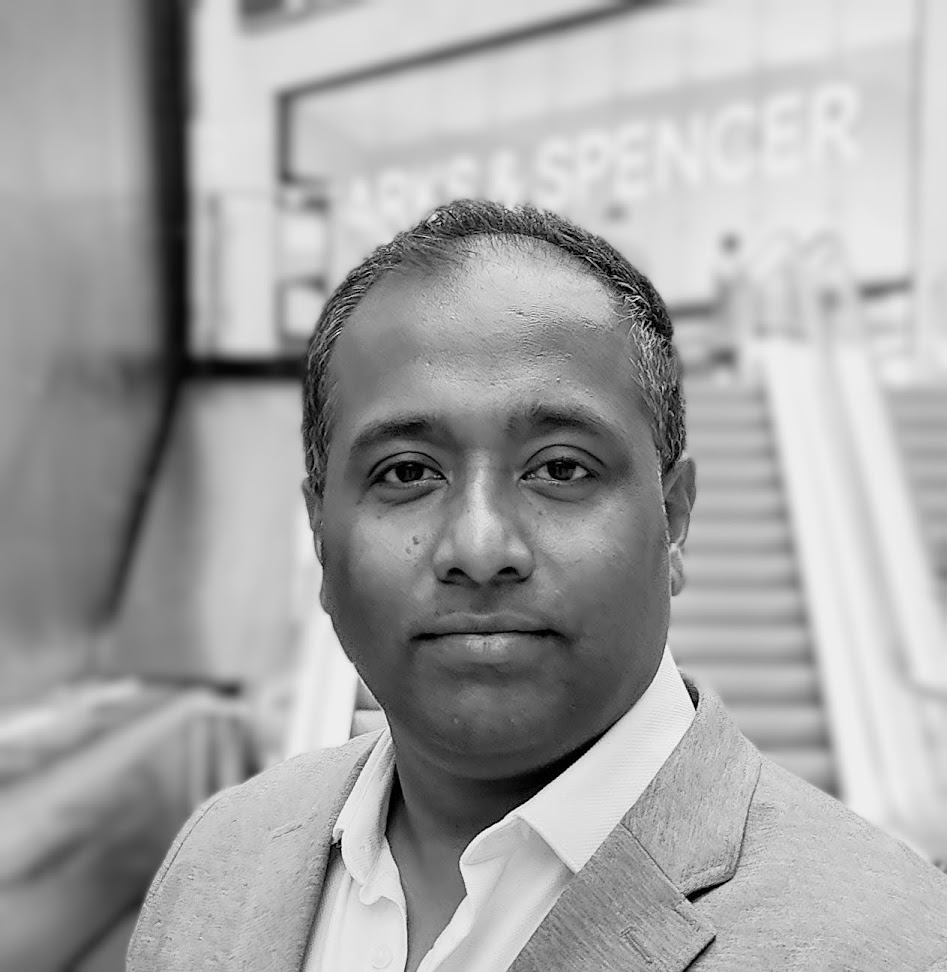
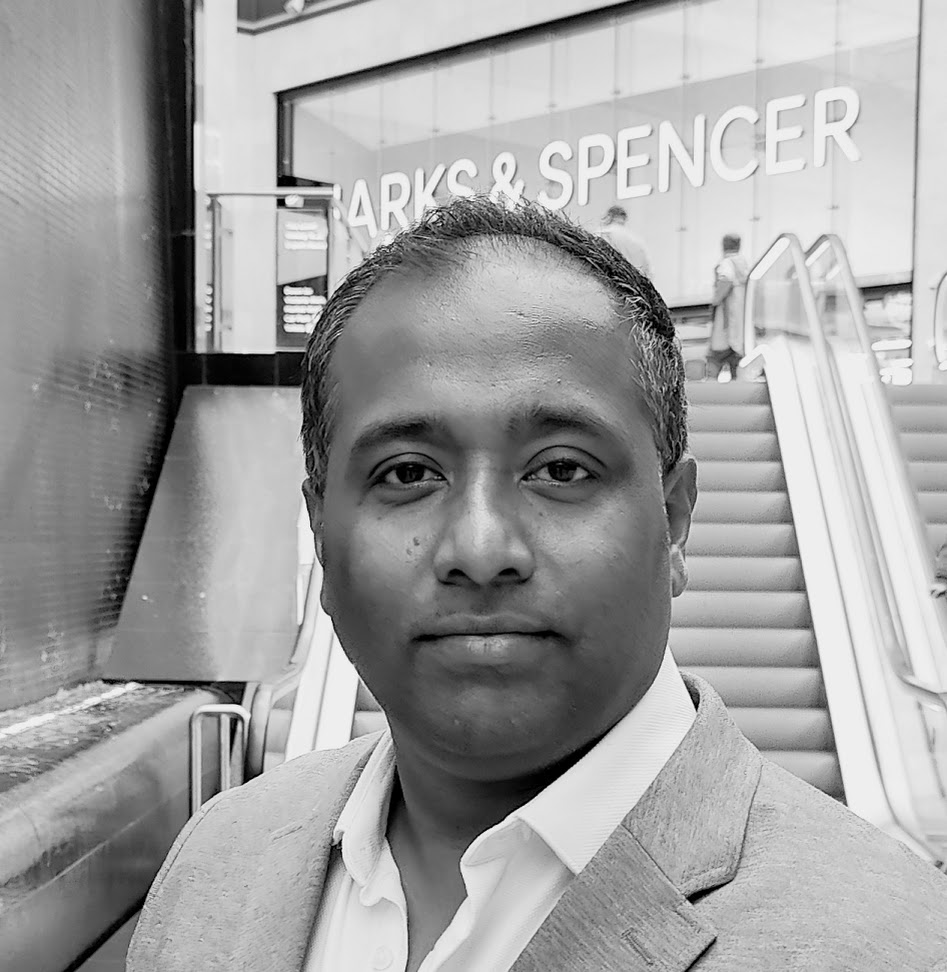
updated the aboutus index page

diff --git a/docs/about/index.html b/docs/about/index.html
@@ -1,3 +1,3 @@
 <!doctype html><html lang=en><head><meta charset=utf-8><meta http-equiv=x-ua-compatible content="ie=edge"><title>About - InfoVelocity - Empowering Businesses</title><meta name=viewport content="width=device-width,initial-scale=1"><link rel=icon href=https://infovelocity.io/devsite/favicon.png><link rel=stylesheet href=/devsite/css/style.min.9eb584c6a7bc80e806ac8d81d948087331ad4242fc24a8178240824850613222.css></head><body class='page page-pages-aboutlayout'><div id=main-menu-mobile class=main-menu-mobile><ul><li class=menu-item-home><a href=/devsite/><span>Home</span></a></li><li class=menu-item-services><a href=/devsite/services/><span>Services</span></a></li><li class="menu-item-about us"><a href=/devsite/about/><span>About Us</span></a></li><li class=menu-item-blog><a href=/devsite/blog/><span>Blog</span></a></li><li class=menu-item-contact><a href=/devsite/contact/><span>Contact</span></a></li></ul></div><div id=wrapper class=wrapper><div class='header header-absolute'><div class=container><div class=logo><a href=https://infovelocity.io/devsite/><img height=29px width=217px alt="Hugo Hero" src=/devsite/images/logo.svg></a></div><div class=logo-mobile><a href=https://infovelocity.io/devsite/><img height=100px width=100px alt="Hugo Hero" src=/devsite/images/logo-mobile.jpg></a></div><div id=main-menu class=main-menu><ul><li class=menu-item-home><a href=/devsite/><span>Home</span></a></li><li class=menu-item-services><a href=/devsite/services/><span>Services</span></a></li><li class="menu-item-about us active"><a href=/devsite/about/><span>About Us</span></a></li><li class=menu-item-blog><a href=/devsite/blog/><span>Blog</span></a></li><li class=menu-item-contact><a href=/devsite/contact/><span>Contact</span></a></li></ul></div><button id=toggle-main-menu-mobile class="hamburger hamburger--slider" type=button aria-label="Toggle Menu">
-<span class=hamburger-box><span class=hamburger-inner></span></span></button></div></div><div id=hero class="hero-image hero-image-setheight" style=background-image:url(https://source.unsplash.com/sO-JmQj95ec/1600x1000)><div class=container><div class=hero-text><span class=hero-section></span><h1>Our Story</h1><p>Established in 2023, by a team of Innovators & Engineers to empower businesses to make data driven decisions in the rapidly changing landscape</p></div></div></div><div class="strip bg-cover bg-position-top bg-overlay" style=background-image:url(/devsite/)><div class="container pt-3 pb-3"><div class=row><div style=text-align:left><img src=mohanb1.jpg alt=mohanb1.jpg class=avatar2></div><div class="col-20 col-md-20 offset-md-0"><h2 class="text-primary text-capitalize">Mohan Balasundaram</h2><img src=../social/linkedin.png alt=linkedin style=width:30px> <a href=https://linkedin.com/in/mohanb>linkedin.com/in/mohanb</a><br><br><p>Senior Cloud & Devops Consultant</p><p>Mohan embarked on his career as a Linux admin and has now amassed over 16+ years of experience across a wide spectrum of technologies. For the past 8 years, he has served as an independent consultant, contributing his expertise to renowned public and private sector entities such as Worldpay, JP Morgan, Ministry of Justice and UK Home Office. He has played an instrumental role in numerous successful transformation projects.</p><p>Mohan&rsquo;s technical prowess is fortified by a range of AWS certifications, encompassing AWS Certified Solutions Architect - Professional, AWS Certified Security - Specialist, and AWS Certified DevOps - Professional. He also holds multiple Kubernetes certifications, comprising Certified Kubernetes Administrator and Certified Kubernetes Security Specialist.</p><p>Mohan&rsquo;s passion for intricate problem-solving and remarkable attention to detail sets him apart. His comprehensive knowledge spans diverse technologies, complemented by an outstanding skill to understand business needs, rapid learning abilities, and an unwavering knack for precision and clarity. Thriving in dynamic, multifaceted environments that demand unwavering excellence, he upholds high standards as an integral part of his work ethic. A cornerstone of our team, he is primed to elevate our collective capabilities, steering our company toward even greater accomplishments.</p></div></div></div></div><div class="strip bg-cover bg-position-top bg-overlay" style=background-image:url(/devsite/)><div class="container pt-3 pb-3"><div class=row><div style=text-align:left><img src=mianb1.jpg alt=mianb1.jpg class=avatar1></div><div class="col-20 col-md-20 offset-md-0"><h2 class="text-primary text-capitalize">Mian Mahmood</h2><img src=../social/linkedin.png alt=linkedin style=width:30px> <a href=https://linkedin.com/in/mian-mahmood>linkedin.com/in/mian-mahmood</a><br><br><p>Principal Application Architect & Senior Java Developer</p><p>Commencing his career as a Java developer, Mian swiftly ascended to diverse senior roles such as Principal Application Architect and Technical Design Authority. With an impressive 30+ years of hands-on experience spanning a broad range of technologies, he has cultivated a remarkable skill set.</p><p>For the past decade, Mian has operated as an independent consultant, offering his expertise to prominent organizations, including Barclays Wealth, JP Morgan, Ministry of Justice, and the UK Home Office. He has successfully led and delivered numerous projects from the design phase to final delivery.</p><p>Fueled by an enduring commitment to advancing open-source advancements, he stands as a self-motivated problem solver known for his precision. Backed by excellent communication skills and unwavering dedication to shared goals, he is a pivotal asset dedicated to propelling our company&rsquo;s success. His consistent drive for innovation underscores his significant impact on our team&rsquo;s achievements.</p></div></div></div></div></div><div class=footer><div class=container><div class=row><div class=col-12><div class=footer-inner><ul class=social><li><a href=https://github.com/infovelocity target=blank><img width=20 height=20 src=/devsite/social/github.svg title=Github alt=Github></a></li><li><a href=https://twitter.com/infovelocityio target=blank><img width=20 height=20 src=/devsite/social/twitter.svg title=Twitter alt=Twitter></a></li><li><a href=https://linkedin.com/infovelocity target=blank><img width=20 height=20 src=/devsite/social/linkedin-white.png title=Linkedin alt=Linkedin></a></li></ul><ul class=footer-menu><li>Registered in England</li><li>Company number: 14919004</li><li><a href=https://infovelocity.io/devsite//policy/carbon-reduction/>Carbon reduction plan</a></li><li><a href=https://infovelocity.io/devsite//policy/slavery-policy/>Modern slavery policy</a></li><li><a href=https://infovelocity.io/devsite//policy/privacy-policy/>Privacy policy</a></li></ul><ul class="footer footer-custom"><li><a href=https://infovelocity.io/devsite/>Home</a></li><li><a href=https://infovelocity.io/devsite//about>About us</a></li><li><a href=https://infovelocity.io/devsite//services>Our Services</a></li><li><a href=https://infovelocity.io/devsite//blog>Articles</a></li><li><a href=https://infovelocity.io/devsite//contact>Contact us</a></li></ul><div style=flex-direction:row><a href=https://www.ncsc.gov.uk/cyberessentials/overview><img src=/devsite/Cyber.png alt="cyber certified" style=width:160px></a>
+<span class=hamburger-box><span class=hamburger-inner></span></span></button></div></div><div id=hero class="hero-image hero-image-setheight" style=background-image:url(https://source.unsplash.com/sO-JmQj95ec/1600x1000)><div class=container><div class=hero-text><span class=hero-section></span><h1>Our Story</h1><p>Established in 2023, by a team of Innovators & Engineers to empower businesses to make data driven decisions in the rapidly changing landscape</p></div></div></div><div class="strip bg-cover bg-position-top bg-overlay" style=background-image:url(/devsite/)><div class="container pt-3 pb-3"><div class=row><div style=text-align:left><img src=mohanb2.jpg alt=mohanb2.jpg class=avatar2></div><div class="col-20 col-md-20 offset-md-0"><h2 class="text-primary text-capitalize">Mohan Balasundaram</h2><img src=../social/linkedin.png alt=linkedin style=width:30px> <a href=https://linkedin.com/in/mohanb>linkedin.com/in/mohanb</a><br><br><p>Senior Cloud & Devops Consultant</p><p>Mohan embarked on his career as a Linux admin and has now amassed over 16+ years of experience across a wide spectrum of technologies. For the past 8 years, he has served as an independent consultant, contributing his expertise to renowned public and private sector entities such as Worldpay, JP Morgan, Ministry of Justice and UK Home Office. He has played an instrumental role in numerous successful transformation projects.</p><p>Mohan&rsquo;s technical prowess is fortified by a range of AWS certifications, encompassing AWS Certified Solutions Architect - Professional, AWS Certified Security - Specialist, and AWS Certified DevOps - Professional. He also holds multiple Kubernetes certifications, comprising Certified Kubernetes Administrator and Certified Kubernetes Security Specialist.</p><p>Mohan&rsquo;s passion for intricate problem-solving and remarkable attention to detail sets him apart. His comprehensive knowledge spans diverse technologies, complemented by an outstanding skill to understand business needs, rapid learning abilities, and an unwavering knack for precision and clarity. Thriving in dynamic, multifaceted environments that demand unwavering excellence, he upholds high standards as an integral part of his work ethic. A cornerstone of our team, he is primed to elevate our collective capabilities, steering our company toward even greater accomplishments.</p></div></div></div></div><div class="strip bg-cover bg-position-top bg-overlay" style=background-image:url(/devsite/)><div class="container pt-3 pb-3"><div class=row><div style=text-align:left><img src=mianb1.jpg alt=mianb1.jpg class=avatar1></div><div class="col-20 col-md-20 offset-md-0"><h2 class="text-primary text-capitalize">Mian Mahmood</h2><img src=../social/linkedin.png alt=linkedin style=width:30px> <a href=https://linkedin.com/in/mian-mahmood>linkedin.com/in/mian-mahmood</a><br><br><p>Principal Application Architect & Senior Java Developer</p><p>Commencing his career as a Java developer, Mian swiftly ascended to diverse senior roles such as Principal Application Architect and Technical Design Authority. With an impressive 30+ years of hands-on experience spanning a broad range of technologies, he has cultivated a remarkable skill set.</p><p>For the past decade, Mian has operated as an independent consultant, offering his expertise to prominent organizations, including Barclays Wealth, JP Morgan, Ministry of Justice, and the UK Home Office. He has successfully led and delivered numerous projects from the design phase to final delivery.</p><p>Fueled by an enduring commitment to advancing open-source advancements, he stands as a self-motivated problem solver known for his precision. Backed by excellent communication skills and unwavering dedication to shared goals, he is a pivotal asset dedicated to propelling our company&rsquo;s success. His consistent drive for innovation underscores his significant impact on our team&rsquo;s achievements.</p></div></div></div></div></div><div class=footer><div class=container><div class=row><div class=col-12><div class=footer-inner><ul class=social><li><a href=https://github.com/infovelocity target=blank><img width=20 height=20 src=/devsite/social/github.svg title=Github alt=Github></a></li><li><a href=https://twitter.com/infovelocityio target=blank><img width=20 height=20 src=/devsite/social/twitter.svg title=Twitter alt=Twitter></a></li><li><a href=https://linkedin.com/infovelocity target=blank><img width=20 height=20 src=/devsite/social/linkedin-white.png title=Linkedin alt=Linkedin></a></li></ul><ul class=footer-menu><li>Registered in England</li><li>Company number: 14919004</li><li><a href=https://infovelocity.io/devsite//policy/carbon-reduction/>Carbon reduction plan</a></li><li><a href=https://infovelocity.io/devsite//policy/slavery-policy/>Modern slavery policy</a></li><li><a href=https://infovelocity.io/devsite//policy/privacy-policy/>Privacy policy</a></li></ul><ul class="footer footer-custom"><li><a href=https://infovelocity.io/devsite/>Home</a></li><li><a href=https://infovelocity.io/devsite//about>About us</a></li><li><a href=https://infovelocity.io/devsite//services>Our Services</a></li><li><a href=https://infovelocity.io/devsite//blog>Articles</a></li><li><a href=https://infovelocity.io/devsite//contact>Contact us</a></li></ul><div style=flex-direction:row><a href=https://www.ncsc.gov.uk/cyberessentials/overview><img src=/devsite/Cyber.png alt="cyber certified" style=width:160px></a>
 <a href=https://www.crowncommercial.gov.uk/><img src=/devsite/CCS_BLK.png alt="crown commercial" style=width:150px></a></div></div></div></div></div></div><div class=sub-footer><div class=container><div class=row><div class=col-12><div class=sub-footer-inner><ul></ul><ul><li class=copyright style=font-weight:700;color:#fff;text-decoration:none>© 2023 <a style=color:#fff href=https://www.infovelocity.io>InfoVelocity - Empowering Businesses</a></li></ul></div></div></div></div></div><script type=text/javascript src=/devsite/js/scripts.min.8504133605a277da18f0d58cfd2e90d154962f4a961543a6e2f0a459a2d05462.js></script></body></html>
